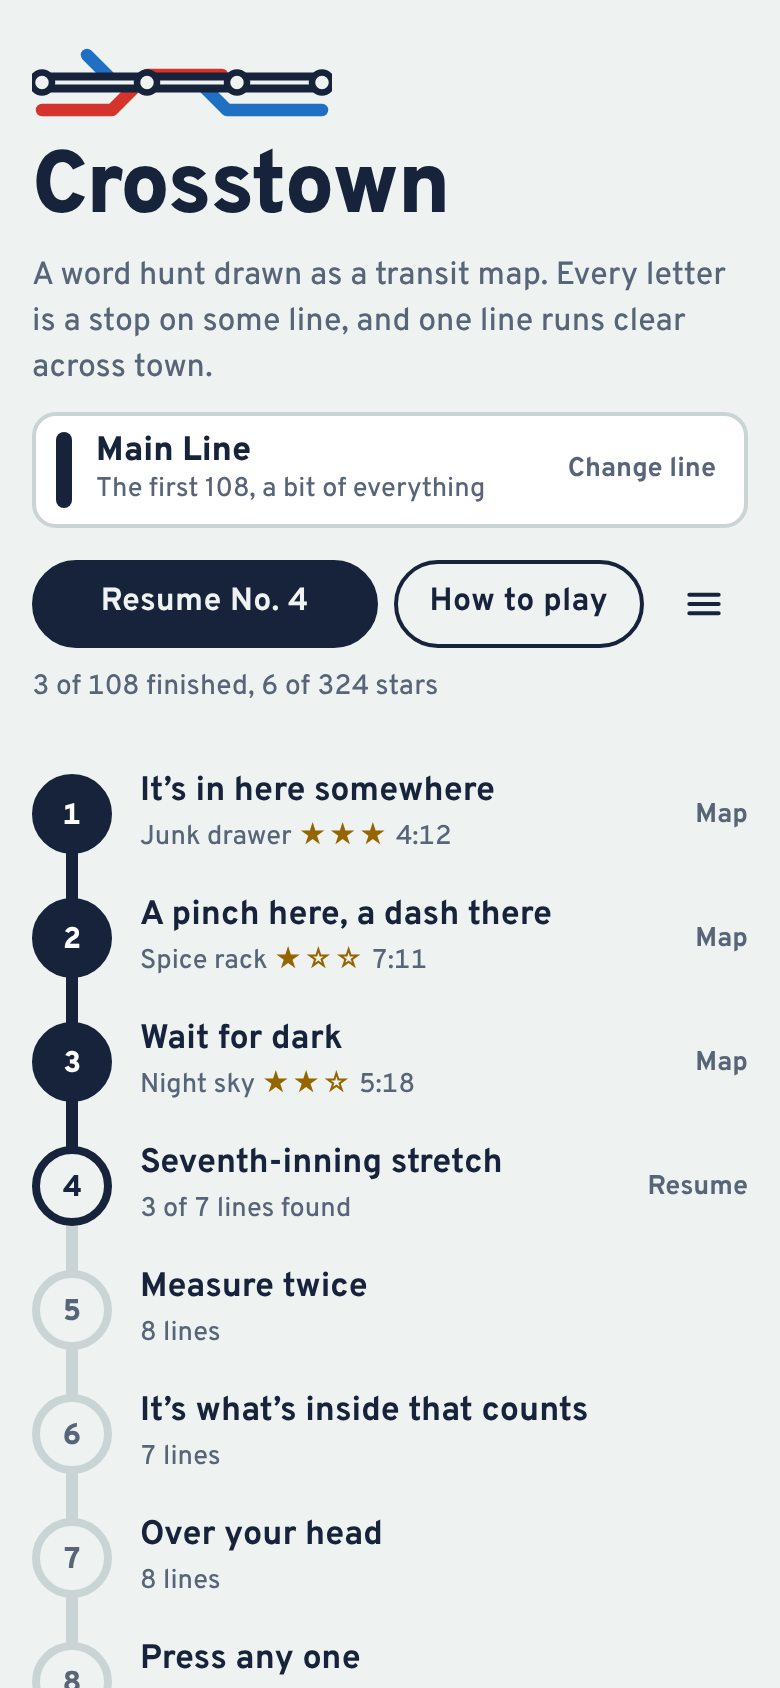
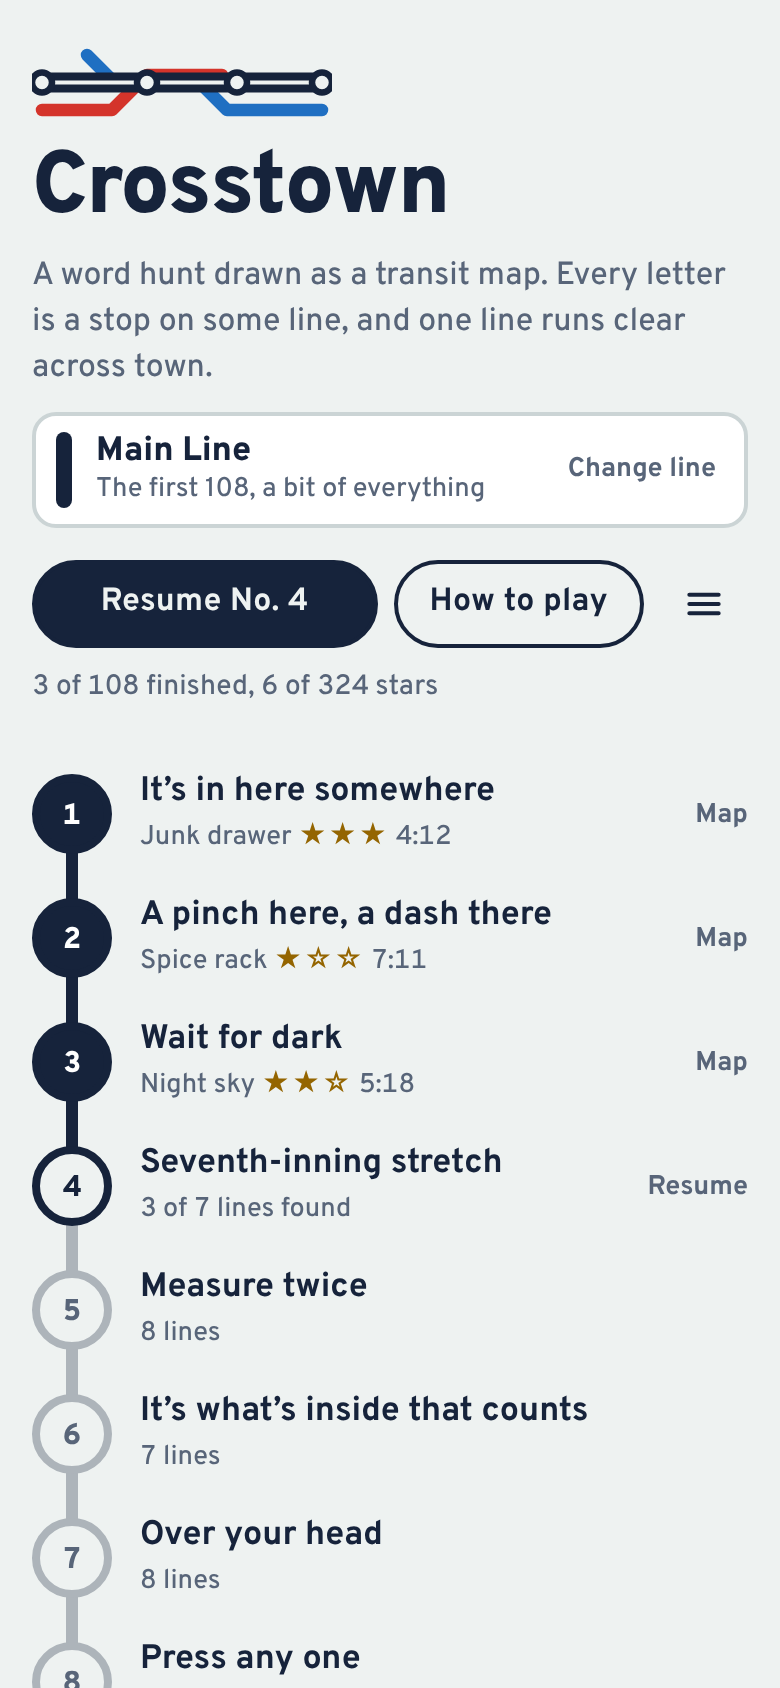
Tint a line's route not yet ridden with the line's colour
The route and roundels not yet played were the same grey on every line, so a fresh Park, Theater or Airport list
looked like any other, and the line's colour showed only in the card's bar. Switching to a line not yet tried, the
usual reason to switch, gave no sense of having changed trains. The unridden route and the rings of unplayed stops
are now 30% of the line's colour on the paper; ridden stops stay at full strength, and the Main Line, whose colour is
the ink, stays a grey. The README's list picture is redrawn.

Claude-Session: https://claude.ai/code/session_01PQbLNW4ckNMowmqWSWnEc1

diff --git a/css/app.css b/css/app.css
@@ -197,8 +197,10 @@ a { color: inherit; }
 
 .route { display: flex; flex-direction: column; }
 .route li { position: relative; }
-/* the route line: a segment above and below each roundel, inked as far as you've ridden */
-.route li::before, .route li::after { content: ''; position: absolute; left: 17px; width: 6px; background: var(--rule); }
+/* the route line: a segment above and below each roundel, inked as far as you've ridden, and a pale tint of the line's
+   colour beyond, so a line not yet ridden still looks like that line (the Main Line's colour is the ink: a grey) */
+.route { --unridden: color-mix(in srgb, var(--line, var(--cross)) 30%, var(--bg)); }
+.route li::before, .route li::after { content: ''; position: absolute; left: 17px; width: 6px; background: var(--unridden); }
 .route li::before { top: 0; height: 50%; }
 .route li::after { top: 50%; height: 50%; }
 .route li:first-child::before, .route li:last-child::after { display: none; }
@@ -219,7 +221,7 @@ a { color: inherit; }
 }
 .roundel {
   display: grid; place-items: center; width: 40px; height: 40px; border-radius: 50%;
-  background: var(--bg); border: 4px solid var(--rule); color: var(--muted);
+  background: var(--bg); border: 4px solid var(--unridden); color: var(--muted);
   font-weight: 800; font-size: 15px; font-variant-numeric: tabular-nums; line-height: 1; padding-top: 2px;
 }
 .going .roundel { border-color: var(--line, var(--cross)); color: var(--ink); }

diff --git a/sw.js b/sw.js
@@ -9,7 +9,7 @@
 // only when this file changes by a byte, so FILES is a fingerprint of every file in SHELL: change any of them and
 // test/e2e.mjs fails until FILES is changed to match (it says what to), which changes this file.
 const CACHE = 'crosstown-v2'; // bump the number when the file list changes
-const FILES = 'f6d6af0f'; // test/e2e.mjs checks this
+const FILES = '9cf5ef5f'; // test/e2e.mjs checks this
 const SHELL = [
   './', 'index.html', 'icon.svg', 'manifest.webmanifest',
   'css/app.css', 'js/app.js', 'js/board.js', 'js/rules.js', 'js/puzzles.js', 'fonts/overpass.woff2',
